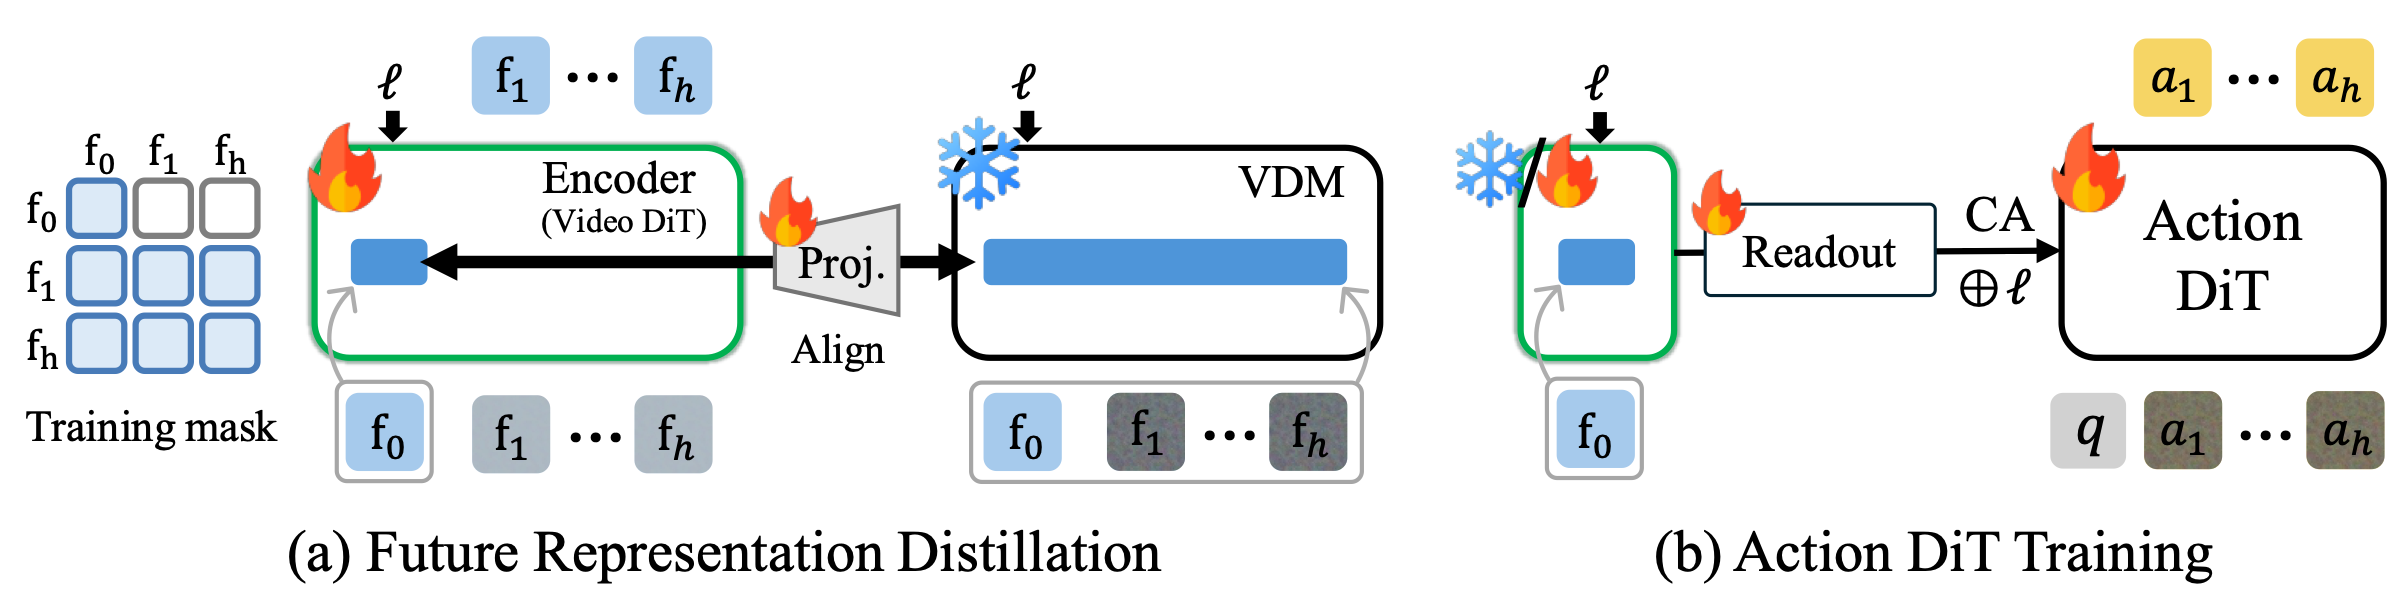
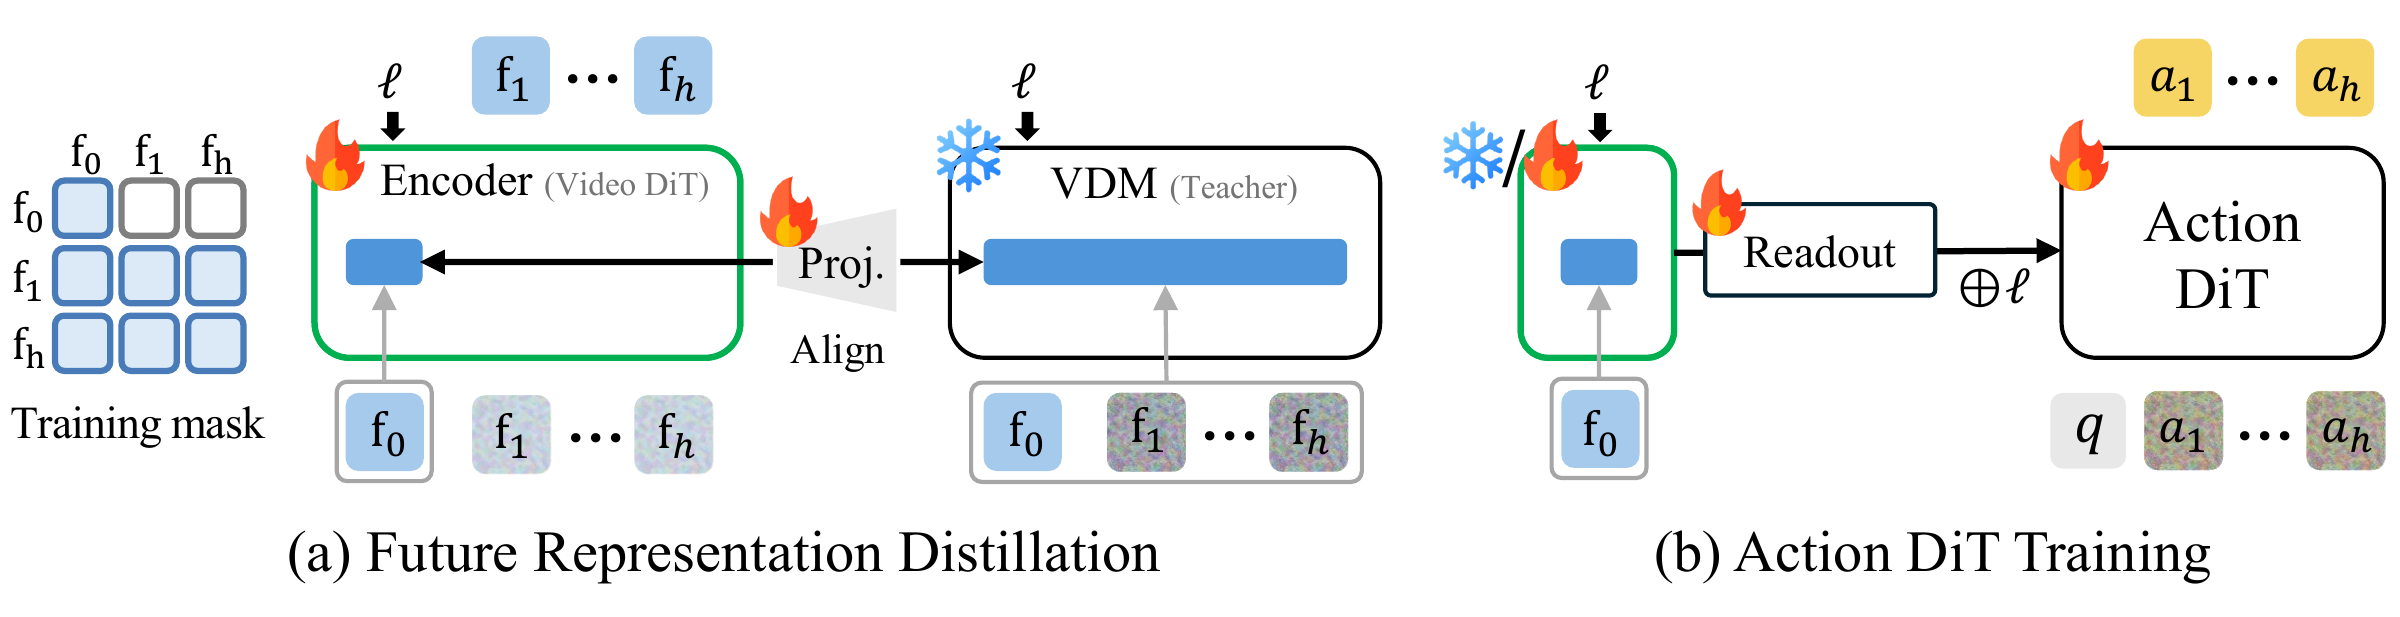
Update Figure 2 with revised architecture diagram

diff --git a/index.html b/index.html
@@ -161,7 +161,7 @@
     <section class="section section-tint" id="method" aria-labelledby="method-title"><div class="container">
       <div class="section-heading"><h2 id="method-title">Make video priors useful without imagining videos.</h2><p>An explicit alignment loss makes current-frame features predictive of the future.</p></div>
       <p class="method-phase-label">At training</p>
-      <figure class="paper-figure"><button class="figure-zoom" type="button" aria-label="Enlarge Figure 2 method diagram"><img src="assets/figures/method_v2.png" width="2400" height="615" loading="lazy" alt="DreamFree's two-stage architecture: future representation distillation from a frozen video model, followed by training an action readout and decoder."></button><figcaption>Figure 2 · Future frames supervise predictive representation learning during training. At deployment, the encoder needs only the current observation and instruction.</figcaption></figure>
+      <figure class="paper-figure"><button class="figure-zoom" type="button" aria-label="Enlarge Figure 2 method diagram"><img src="assets/figures/method_v2.png?v=20261103" width="2400" height="617" loading="lazy" alt="DreamFree's two-stage architecture: future representation distillation from a frozen video model, followed by training an action readout and decoder."></button><figcaption>Figure 2 · Future frames supervise predictive representation learning during training. At deployment, the encoder needs only the current observation and instruction.</figcaption></figure>
       
       <div class="method-steps"><article><span class="step-label">STAGE 1</span><h3>Distill predictive representations</h3><p>A frozen video diffusion teacher observes current and future frames. An alignment loss trains the current-frame features to predict the teacher’s future-aware representations, alongside the original video generative objective. This directly supervises the features used for control and needs no action labels.</p></article><article><span class="step-label">STAGE 2</span><h3>Learn to read out actions</h3><p>Using action-labeled robot demonstrations, a readout module extracts action-relevant features from the visual encoder. An action decoder maps these features to executable action chunks.</p></article></div>
       <div class="inference" id="inference"><span>At inference</span>
